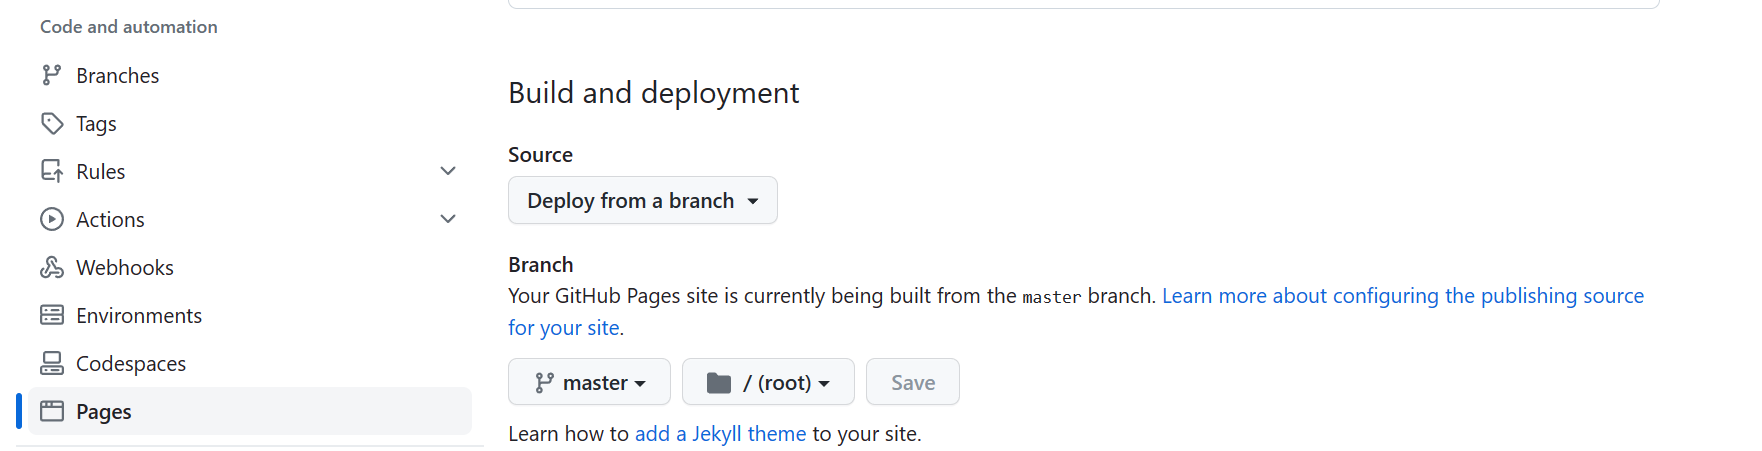
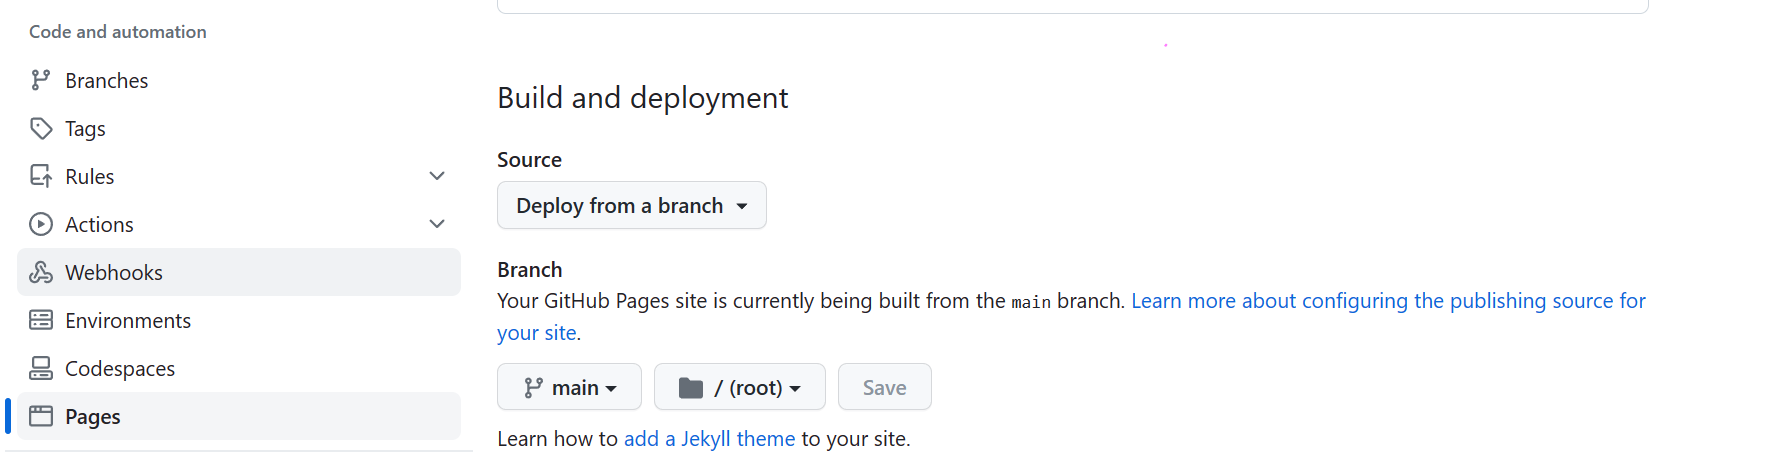
Fix some formatting issues

diff --git a/_layouts/post.html b/_layouts/post.html
@@ -10,20 +10,23 @@ layout: base
                 <i class="icon-post-date">{{ page.date | date: "%b %-d, %Y" }}</i>
             </time>
             {% if page.categories.size > 0 %} |
-            <span class="post-category">
-            <i class="icon-post-category">
-            {% for page_category in page.categories %}
-                <a href="{{ site.baseurl }}/category/#{{ page_category }}">{{ page_category }}</a>
-            {% endfor %}
-            </i>
-        </span> {% endif %} {% if page.tags.size > 0 %} |
-            <span class="post-tag">
-            <i class="icon-post-tag">
-            {% for page_tag in page.tags %}
-                <a href="{{ site.baseurl }}/tags/#{{ page_tag }}">{{ page_tag }}</a>
-            {% endfor %}
-            </i>
-        </span>{% endif %}
+                <span class="post-category">
+                <i class="icon-post-category">
+                {% for page_category in page.categories %}
+                    <a href="{{ site.baseurl }}/category/#{{ page_category }}">{{ page_category }}</a>
+                {% endfor %}
+                </i>
+                </span> 
+            {% endif %}
+            {% if page.tags.size > 0 %} |
+                <span class="post-tag">
+                <i class="icon-post-tag">
+                {% for page_tag in page.tags -%}
+                    <a href="{{ site.baseurl }}/tags/#{{ page_tag }}">{{ page_tag }}{% unless forloop.last %}, {% endunless -%}</a>
+                {% endfor %}
+                </i>
+                </span>
+            {% endif %}
         </p>
 
     </header>
@@ -37,7 +40,8 @@ layout: base
         {% if page.previous %}
         <a href="{{ page.previous.url | prepend: site.baseurl }}" class="pre"><i class="icon-post-pre"> {{
             page.previous.title }}</i></a>
-        {% endif %} {% if page.next %}
+        {% endif %}
+        {% if page.next %}
         <a href="{{ page.next.url | prepend: site.baseur }}" class="next">{{ page.next.title }} <i
                 class="icon-post-next"></i></a>
         {% endif %}

diff --git a/_posts/2023-10-12-github-page-blog.md b/_posts/2023-10-12-github-page-blog.md
@@ -13,7 +13,7 @@ categories: [GitHub]
 
 2. fork的时候repository name必须是`{你的Github用户名}.github.io`，并且这个repository必须是public的。
 
-3. 到fork完成后的repository下，选择`Settings -> Code and automation -> Pages`，然后在`Build and deployment`下设置`Source`为`Deploy from a branch`，设置`Branch`为`master`。
+3. 到fork完成后的repository下，选择`Settings -> Code and automation -> Pages`，然后在`Build and deployment`下设置`Source`为`Deploy from a branch`，设置`Branch`为`main`。
 ![BuildAndDeployment](/assets/img/GithubPageBlog_BuildAndDeployment.png)
 
 4. 等待一会儿，页面上会出现`Your site is live at https://{你的Github用户名}.github.io`的提示，表示你的博客已经部署好了，地址就是`https://{你的Github用户名}.github.io`。
@@ -22,25 +22,23 @@ categories: [GitHub]
 
 怎么样，是不是很简单呢？当然啦，这个博客不一定完全符合你的要求，也许你想要进行一些修改和定制，接着往下看吧。
 
+{:start="5"}
 5. 参考[Jekyll安装文档]((https://jekyllrb.com/docs/installation/))，在本地安装Ruby和Jekyll。
 
-    5.1. 下载并安装[Ruby+Devkit](https://rubyinstaller.org/downloads/)，安装时使用默认选项。
-    >安装路径不能包含空格。
+    - 下载并安装[Ruby+Devkit](https://rubyinstaller.org/downloads/)，安装时使用默认选项。
+      >安装路径不能包含空格。
 
-    5.2. 在自动打开的cmd窗口中输入3。
-    ![InstallRuby](/assets/img/GithubPageBlog_InstallRuby.png)
-    >如果没有自动打开cmd，就手动打开一个并输入`ridk install`。
+    - 在自动打开的cmd窗口中输入3。
+      ![InstallRuby](/assets/img/GithubPageBlog_InstallRuby.png)
+      >如果没有自动打开cmd，就手动打开一个并输入`ridk install`。
 
-    5.3. 安装Jekyll。
-    ```
-    >gem install jekyll
-    ```
-    >如果安装速度很慢的话，可以考虑替换gem的source。先删除原来的source: `gem source -r https://rubygems.org/`, 再添加新的source：`gem source -a http://gems.ruby-china.com`。
+    - 运行`gem install jekyll`，安装Jekyll。
+      >如果安装速度很慢的话，可以考虑替换gem的source。先删除原来的source: `gem source -r https://rubygems.org/`, 再添加新的source：`gem source -a http://gems.ruby-china.com`。
 
-    5.4. 把`{你的Github用户名}.github.io`这个respository clone到本地，在项目路径下打开一个cmd，并运行`jekyll server`，运行成功后打开`http://localhost:4000`就能看到本地运行的博客啦。
-    >运行`jekyll server`时也许会报一些缺少plugin的错误，运行`gem install xxx`安装就行啦。
+6. 把`{你的Github用户名}.github.io`这个respository clone到本地，在项目路径下打开一个cmd，并运行`jekyll server`，运行成功后打开`http://localhost:4000`就能看到本地运行的博客了。
+    >运行`jekyll server`时也许会报一些缺少plugin的错误，运行`gem install xxx`安装就行。
 
-到这里你已经可以在本地运行这个博客了，接下来就随意修改，让它变成你满意的样子吧。这里我就不多赘述了，相信聪明的你可以自己搞定的！
+7. 接下来就随意修改，让博客变成你满意的样子吧。这里我就不多赘述了，相信聪明的你可以自己搞定的！
 
 所有的文章都在`_posts`目录下，文件名是有格式要求的，必须是`YYYY-MM-DD-TITLE.md`。文章的开头需要添加front matter，如下所示，更多内容可以参考[Jekyll Posts](https://jekyllrb.com/docs/posts/)。
 
